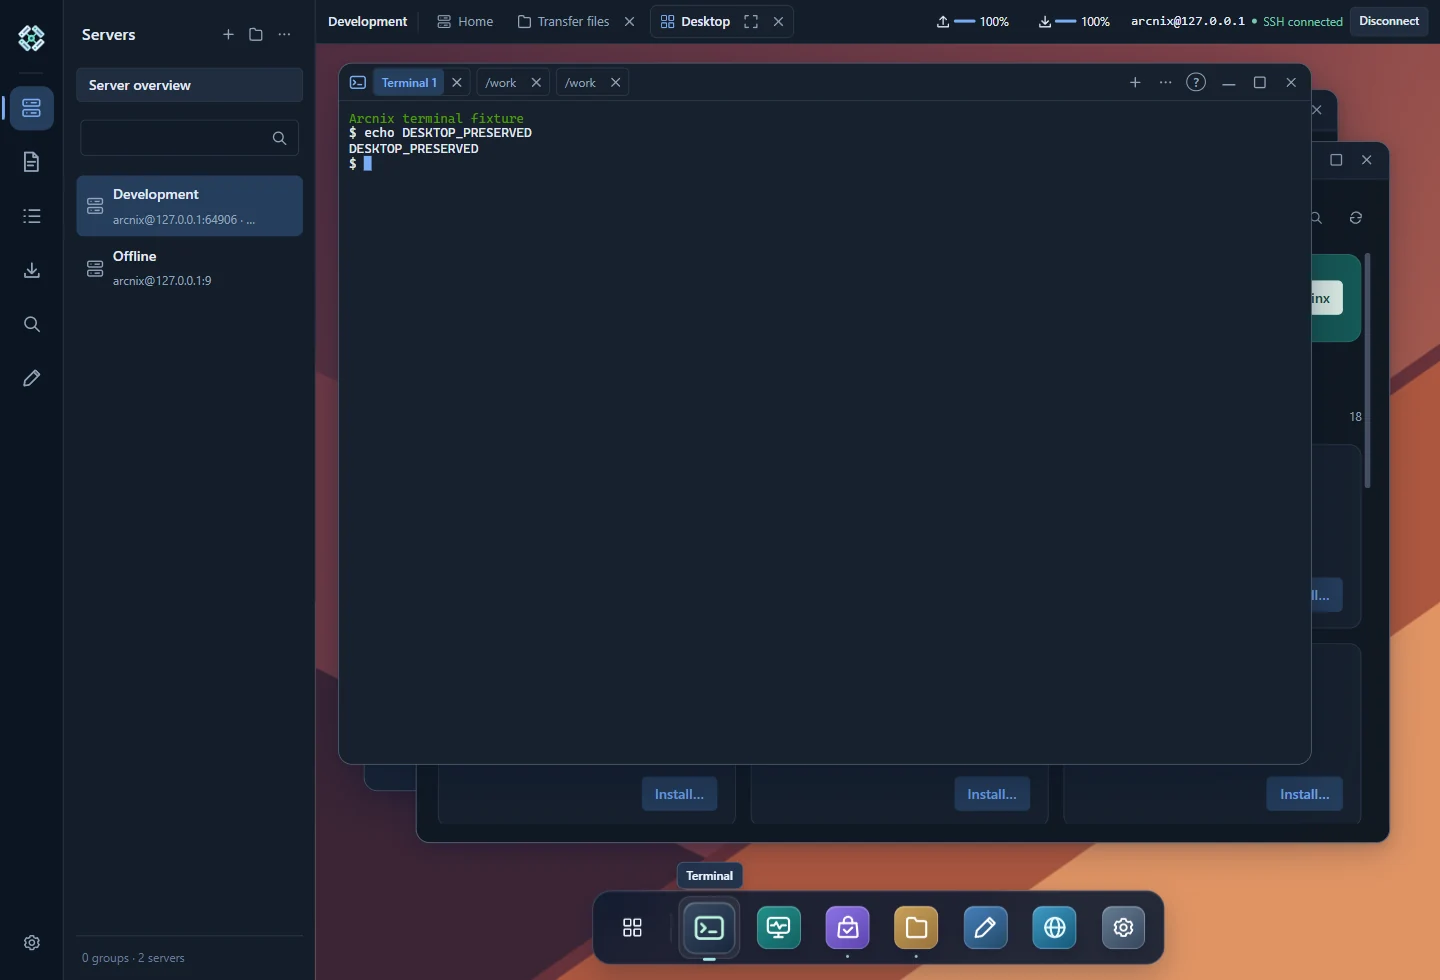
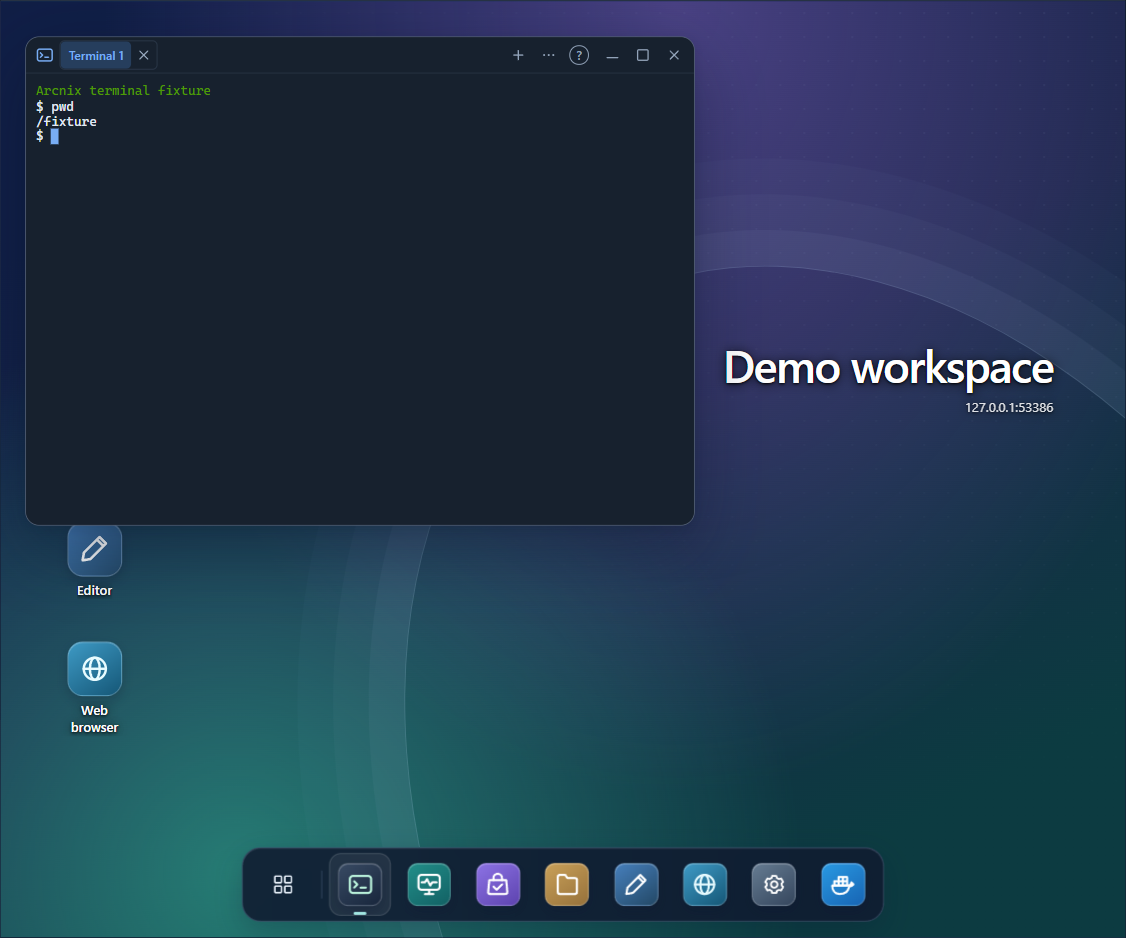
Refresh Arcnix website for 0.3.0

diff --git a/src/styles/site.css b/src/styles/site.css
@@ -37,13 +37,13 @@ nav a, .language, footer a { color: var(--soft); }
 .nav-tools { margin-left: auto; gap: 1.35rem; }
 .language, .git { gap: .45rem; }
 .git { border: 1px solid var(--line); border-radius: .38rem; padding: .52rem .78rem; }
-.hero { overflow: hidden; background: radial-gradient(ellipse at 78% 66%, #22303970, transparent 47%), var(--bg); }
-.hero-inner { display: grid; grid-template-columns: 1fr 1.04fr; align-items: center; position: relative; padding-block: clamp(4rem, 6vw, 6.5rem); }
+.hero { overflow: hidden; background: radial-gradient(ellipse at 81% 46%, #243d3c94, transparent 59%), var(--bg); }
+.hero-inner { display: grid; grid-template-columns: minmax(0, .95fr) minmax(0, 1.25fr); gap: clamp(1.5rem, 4vw, 4rem); align-items: center; padding-block: clamp(3rem, 5vw, 5.25rem); }
 .hero-copy { z-index: 1; }
 .eyebrow { color: var(--lime); font: 500 .8rem/1.4 var(--mono); text-transform: uppercase; letter-spacing: .115em; gap: .72rem; }
 .eyebrow i { width: 1.65rem; height: 2px; background: currentColor; }
 h1, h2, h3 { text-wrap: balance; }
-h1 { font-size: clamp(3.9rem, 6.25vw, 6.3rem); line-height: 1.015; letter-spacing: -.077em; font-weight: 595; margin: 1.25rem 0 1.4rem; }
+h1 { font-size: clamp(3.25rem, 5.45vw, 5.7rem); line-height: 1.015; letter-spacing: -.072em; font-weight: 595; margin-bottom: 1.4rem; }
 h1 em { font-style: normal; color: var(--lime); }
 p { color: var(--soft); font-size: 1.04rem; line-height: 1.7; }
 .hero p { max-width: 28.5rem; font-size: 1.08rem; }
@@ -52,14 +52,26 @@ p { color: var(--soft); font-size: 1.04rem; line-height: 1.7; }
 .primary { background: var(--lime); color: #152213; border: 1px solid var(--lime); }
 .primary:hover { color: #101b0f; background: #d1ffac; }
 .secondary { border: 1px solid #45504e; background: #1a2021; }
-.diagram { margin-inline: -4% -7%; }
-.diagram svg { width: 100%; height: auto; display: block; }
-.specs { background: #141a1b; border-block: 1px solid var(--line); }
-.specs dl { display: grid; grid-template-columns: repeat(4, 1fr); padding-block: 1.3rem; }
-.specs dl div { padding-left: 22%; border-left: 1px solid var(--line); }
-.specs dl div:first-child { padding: 0; border: 0; }
-dt { color: #a3b0a9; font: .77rem var(--mono); text-transform: uppercase; letter-spacing: .09em; }
-dd { font-size: 1rem; font-weight: 550; margin-top: .4rem; }
+.hero-screen { background: #172321; border-color: #456052; box-shadow: 0 1.5rem 4rem #060c0c85; }
+.downloads { background: #141b1b; border-block: 1px solid var(--line); }
+.downloads .section { padding-block: clamp(2.7rem, 4.5vw, 4.2rem); }
+.downloads-heading { display: flex; flex-wrap: wrap; gap: 1rem; align-items: center; }
+.downloads-heading h2 { font-size: clamp(2.2rem, 3.2vw, 3.3rem); }
+.version { border: 1px solid #476552; background: #1d2b24; color: var(--lime); padding: .45rem .65rem; border-radius: .35rem; font: .94rem/1 var(--mono); }
+.download-grid { display: grid; grid-template-columns: repeat(3, minmax(0, 1fr)); gap: 1rem; margin-top: 1.5rem; }
+.platform { padding: 1.2rem; border: 1px solid #3d4947; border-radius: .56rem; background: #192120; display: flex; flex-direction: column; }
+.platform-main { border-color: #5a7352; background: #1b2620; }
+.platform h3 { margin: 0 0 .25rem; }
+.platform p { font-size: .9rem; margin-bottom: 1rem; }
+.platform ul { padding: 0; margin: auto 0 0; list-style: none; display: grid; gap: .45rem; }
+.platform-download { display: grid; grid-template-columns: 1.15rem minmax(0, 1fr) auto; align-items: center; gap: .65rem; padding: .62rem .7rem; border: 1px solid #43534d; border-radius: .35rem; background: #1d2825; font-size: .95rem; min-height: 2.7rem; }
+.platform-download:hover { border-color: #71946c; background: #26362b; }
+.platform-download small { font: .8rem var(--mono); color: var(--soft); }
+.featured-download { background: var(--lime); border-color: var(--lime); color: #152213; font-weight: 630; }
+.featured-download small { color: #344930; }
+.featured-download:hover { background: #d1ffac; color: #152213; border-color: #d1ffac; }
+.release-links { display: flex; flex-wrap: wrap; gap: .65rem 1.35rem; margin-top: 1.15rem; font-size: .93rem; color: var(--soft); }
+.release-links a { text-decoration: underline; text-underline-offset: .22em; }
 .section { padding-block: clamp(3.5rem, 6vw, 6rem); scroll-margin-top: 1rem; }
 h2 { font-size: clamp(2.5rem, 4vw, 4rem); font-weight: 550; line-height: 1.09; letter-spacing: -.064em; }
 .eyebrow + h2 { margin-top: .8rem; }
@@ -75,16 +87,12 @@ figure { padding: .65rem; background: #1b2426; border: 1px solid #3c4849; border
 figure a { display: block; }
 figure img { display: block; width: 100%; height: auto; border-radius: .23rem; }
 figcaption { display: flex; justify-content: space-between; color: #b5c4c0; font: .8rem var(--mono); padding: .75rem .2rem .1rem; }
-.ops { background: var(--panel); border-block: 1px solid var(--line); }
+.workspace-note { margin-top: 1.35rem; }
+.ops { background: var(--panel); border-top: 1px solid var(--line); }
 .features { display: grid; grid-template-columns: repeat(3, 1fr); gap: 2.5rem; margin-top: 2.5rem; }
-article { border-top: 1px solid #495452; padding-top: 1.45rem; }
-article svg { width: 1.5rem; height: 1.5rem; color: var(--lime); }
+.features article { border-top: 1px solid #495452; padding-top: 1.45rem; }
+.features article svg { width: 1.5rem; height: 1.5rem; color: var(--lime); }
 h3 { font-size: 1.32rem; font-weight: 560; letter-spacing: -.035em; margin-block: 1rem .6rem; }
-.start { padding-block: 4rem; display: flex; justify-content: space-between; align-items: center; gap: 2rem; }
-.start h2 { font-size: clamp(2rem, 3.2vw, 3.2rem); }
-.start p { max-width: 38rem; margin: 1rem 0 .65rem; }
-.start div > a { text-decoration: underline; text-underline-offset: .25em; color: var(--lime); }
-.start .button { flex: none; }
 footer { border-top: 1px solid var(--line); }
 footer .bar { justify-content: space-between; }
 footer .brand { font-size: 1.15rem; }
@@ -94,28 +102,25 @@ footer .bar > div { gap: 1.25rem; }
 @media (max-width: 900px) {
   .wrap { width: 90%; }
   .bar { gap: 1.6rem; }
-  .hero-inner { grid-template-columns: 1.08fr 1fr; }
-  h1 { font-size: clamp(3.4rem, 7.1vw, 4rem); }
-  .diagram { margin-inline: -8% -11%; }
+  h1 { font-size: clamp(2.75rem, 6.4vw, 4rem); }
+  :lang(zh-CN) h1 { font-size: clamp(2.4rem, 5.6vw, 4rem); }
+  .platform { padding: .9rem; }
+  .platform-download { gap: .45rem; padding-inline: .55rem; }
   .viewer { gap: 1.2rem; }
   .features { gap: 1.5rem; }
 }
 @media (max-width: 680px) {
   .bar { flex-wrap: wrap; gap: .3rem 1rem; padding-block: .8rem; }
-  header nav { order: 3; width: 100%; gap: 1.5rem; padding-top: .6rem; }
+  header nav { order: 3; width: 100%; gap: .6rem 1.15rem; padding-top: .65rem; flex-wrap: wrap; }
   .nav-tools { gap: .85rem; }
-  .hero-inner { grid-template-columns: 1fr; padding-block: 2.75rem .4rem; }
+  .hero-inner { grid-template-columns: 1fr; padding-block: 2.75rem 2rem; }
   h1 { font-size: clamp(3.25rem, 12vw, 4.6rem); }
   .hero p { font-size: 1rem; }
   .actions { margin-top: 1.4rem; }
-  .diagram { width: min(110%, 32rem); margin: -.4rem auto -.3rem; justify-self: center; }
-  .specs dl { grid-template-columns: 1fr 1fr; gap: 1.25rem; }
-  .specs dl div { padding-left: 1rem; }
-  .specs dl div:nth-child(odd) { border: 0; padding-left: 0; }
-  .viewer, .features { grid-template-columns: 1fr; }
+  .hero-screen { width: min(100%, 32rem); justify-self: start; }
+  .viewer, .features, .download-grid { grid-template-columns: 1fr; }
   .switch { padding-block: .8rem; }
   .features { gap: 1.65rem; }
-  .start { align-items: flex-start; flex-direction: column; }
   .button { font-size: .9rem; }
   footer .bar { padding-block: 1.25rem; }
 }
